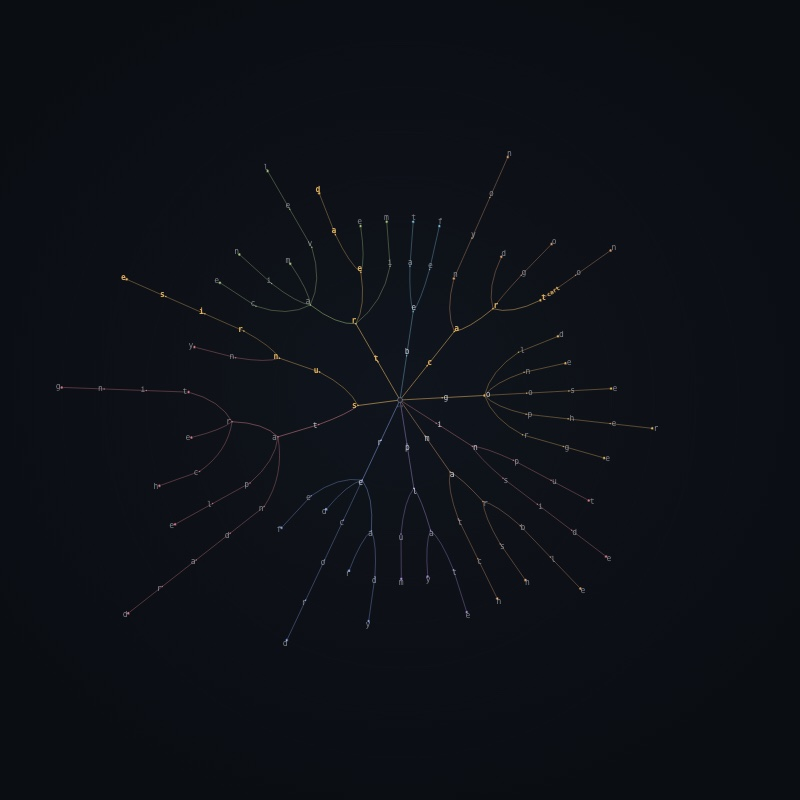
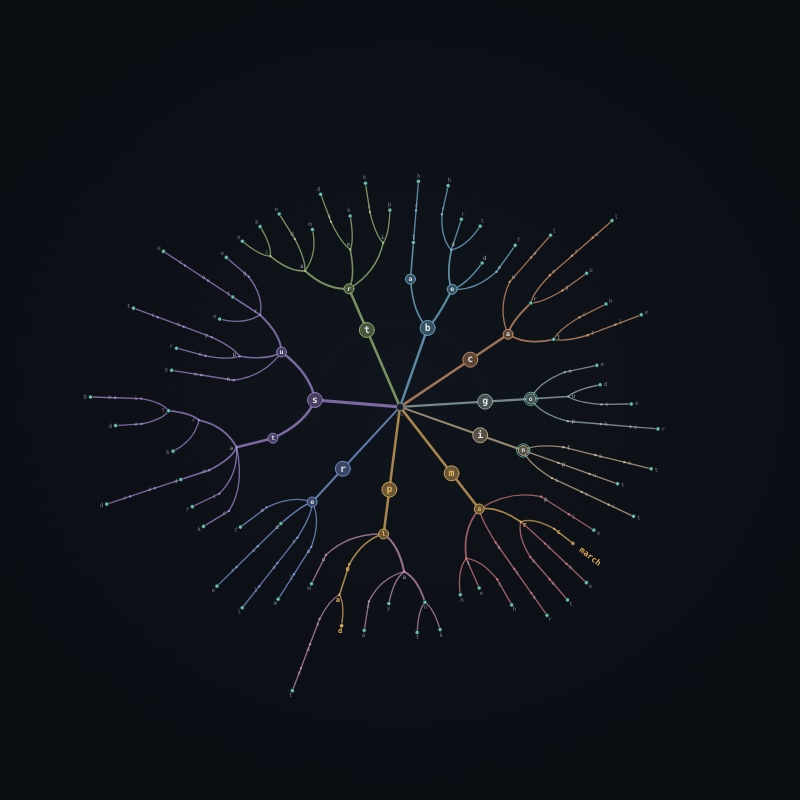
trie: clearer at a glance — bigger trunks and letters, 44 seeded words, readable autocomplete
Regenerated from the Data Structures project after a review of every scene's
first minute: fuller stage, larger text, the payoff sooner, and phone taps that
show within a second (the in-flight operation completes instantly first).

diff --git a/experiences/trie/web/js/scenes/trie.js b/experiences/trie/web/js/scenes/trie.js
@@ -24,10 +24,12 @@
     'go goal goat gold golden golf gone good goose gopher gorge'
   ).split(' ');
 
+  const FIRST = { s: C.violet, c: C.clay, t: C.sage, p: C.plum, b: C.sky, m: C.rose, r: C.blue, i: C.sand, g: '#9fb4b0' };
+
   let uid = 0;
   const mk = (ch, parent) => ({
     ch, parent, kids: new Map(), end: false, depth: parent ? parent.depth + 1 : 0,
-    id: ++uid, x: 0, y: 0, al: 0, hl: 0, w: 1, ang: 0, hue: parent && parent.hue !== undefined ? parent.hue : undefined,
+    id: ++uid, cnt: 0, span: 0, x: 0, y: 0, al: 0, hl: 0, w: 1, ang: 0, hue: parent && parent.hue !== undefined ? parent.hue : undefined,
   });
 
   DS.register({
@@ -66,7 +68,7 @@
       this.labels = [];
       this.ghosts = [];
       this.count = 0;
-      for (let i = 0; i < 18; i++) this.addQuiet(this.nextWord());
+      for (let i = 0; i < 44; i++) this.addQuiet(this.nextWord());
       this.layout(true);
     },
 
@@ -77,7 +79,8 @@
       }
       return null;
     },
-    hueOf(ch) { return DS.HUES[(ch.charCodeAt(0) - 97 + 26) % DS.HUES.length]; },
+    // one hue per first letter; never amber (that means "happening now") or teal (word ends)
+    hueOf(ch) { return FIRST[ch] || DS.wheel((ch.charCodeAt(0) - 97) / 26, 1, 64, 30); },
     child(n, ch) {
       let k = n.kids.get(ch);
       let fresh = false;
@@ -102,24 +105,29 @@
 
     geo() {
       const S = DS.stage;
-      return { cx: S.cx, cy: S.cy, rx: S.w * 0.47, ry: S.h * 0.52 };
+      return { cx: S.cx, cy: S.cy + S.h * 0.01, rx: S.w * 0.43, ry: S.h * 0.44 };
     },
+
+    // radius for a depth: the first levels (the shared trunks) get more room
+    rad(d) { return Math.pow(d / this.maxD, 0.62); },
 
     layout(snap) {
       const G = this.geo();
       let maxD = 1;
       const weigh = (n) => {
         if (n.depth > maxD) maxD = n.depth;
-        let w = n.end && n.kids.size ? 0.6 : 0;
-        for (const k of n.kids.values()) w += weigh(k);
+        let w = n.end && n.kids.size ? 0.6 : 0, cnt = n.end ? 1 : 0;
+        for (const k of n.kids.values()) { w += weigh(k); cnt += k.cnt; }
         n.w = n.kids.size ? w : 1;
+        n.cnt = cnt;                      // words that pass through this node
         return n.w;
       };
       weigh(this.root);
       this.maxD = Math.max(8, maxD);
       const place = (n, a0, a1) => {
         n.ang = (a0 + a1) / 2;
-        const rho = n.depth / this.maxD;
+        const rho = this.rad(n.depth);
+        n.span = a1 - a0;
         n.tx = G.cx + Math.cos(n.ang) * rho * G.rx;
         n.ty = G.cy + Math.sin(n.ang) * rho * G.ry;
         if (snap) { n.x = n.tx; n.y = n.ty; n.al = 1; }
@@ -166,8 +174,14 @@
     *completeGen() {
       const ws = [...this.words];
       if (!ws.length) return;
-      const base = DS.pick(ws);
-      const p = base.slice(0, Math.min(base.length, DS.pick([2, 2, 3])));
+      // prefer a prefix with a handful of completions, so the lit subtree has something in it
+      const under = (q) => ws.filter((w) => w.startsWith(q)).length;
+      let p = '', best = -1;
+      for (let t = 0; t < 14; t++) {
+        const base = DS.pick(ws), q = base.slice(0, Math.min(base.length, DS.pick([2, 2, 3])));
+        const k = under(q), score = k >= 3 && k <= 14 ? 100 - t : k;
+        if (score > best) { best = score; p = q; }
+      }
       let n = this.root;
       this.path = [n];
       this.labels = [];
@@ -182,6 +196,7 @@
       const dfs = (m, s) => { if (m.end) found.push([m, s]); for (const [c, k] of [...m.kids].sort()) dfs(k, s + c); };
       dfs(n, p);
       this.sub = n;
+      this.subP = p;
       this.labels = found.slice(0, 18).map(([m, w]) => ({ n: m, w, t: 4.5 }));
       DS.say(`“${p}…”  →  ${found.slice(0, 7).map((f) => f[1]).join(', ')}${found.length > 7 ? ` … ${found.length} words` : ''}`, 'good');
       yield 4.2;
@@ -242,72 +257,114 @@
     },
 
     draw(g) {
-      const u = DS.u, G = this.geo();
+      const u = DS.u, G = this.geo(), S = DS.stage;
       const inSub = (n) => { if (!this.sub) return false; for (let m = n; m; m = m.parent) if (m === this.sub) return true; return false; };
       const dimOthers = !!this.sub;
+      const R = (G.rx + G.ry) / 2;
 
       // faint depth rings
       for (let d = 1; d <= this.maxD; d++) {
+        const r = this.rad(d);
         g.beginPath();
-        g.ellipse(G.cx, G.cy, (d / this.maxD) * G.rx, (d / this.maxD) * G.ry, 0, 0, Math.PI * 2);
-        g.strokeStyle = DS.rgba(C.dim, 0.045);
+        g.ellipse(G.cx, G.cy, r * G.rx, r * G.ry, 0, 0, Math.PI * 2);
+        g.strokeStyle = DS.rgba(C.dim, d <= 2 ? 0.07 : 0.04);
         g.lineWidth = 1 * u;
         g.stroke();
       }
 
-      this.ghosts.forEach((n) => { g.globalAlpha = n.al; DS.circle(g, n.x, n.y, 2 * u, DS.rgba(C.dim, 0.5)); });
+      this.ghosts.forEach((n) => { g.globalAlpha = n.al; DS.circle(g, n.x, n.y, 3 * u, DS.rgba(C.dim, 0.5)); });
       g.globalAlpha = 1;
 
       // edges, thicker where more words share the path
       g.lineCap = 'round';
       const edges = (n) => {
         for (const k of n.kids.values()) {
-          const hot = k.hl > 0.05 || inSub(k);
-          const a = (dimOthers && !inSub(k) && k.hl < 0.05 ? 0.18 : 0.6) * k.al;
+          const sub = inSub(k);
+          const hot = k.hl > 0.05 || sub;
+          const a = (dimOthers && !sub && k.hl < 0.05 ? 0.28 : 0.72) * k.al;
           const col = hot ? C.amber : k.hue || C.dim;
           g.beginPath();
           g.moveTo(n.x, n.y);
           // bend toward the child's angle so branches fan instead of criss-crossing
           const mx = DS.lerp(n.x, k.x, 0.5), my = DS.lerp(n.y, k.y, 0.5);
-          g.quadraticCurveTo(DS.lerp(mx, G.cx + (k.x - G.cx) * (n.depth / k.depth), 0.5), DS.lerp(my, G.cy + (k.y - G.cy) * (n.depth / k.depth), 0.5), k.x, k.y);
-          g.strokeStyle = DS.rgba(col, hot ? Math.max(a, 0.9 * Math.max(k.hl, inSub(k) ? 1 : 0)) : a);
-          g.lineWidth = (0.9 + Math.sqrt(k.w) * 0.55) * u;
+          const f = this.rad(n.depth) / this.rad(k.depth);
+          g.quadraticCurveTo(DS.lerp(mx, G.cx + (k.x - G.cx) * f, 0.5), DS.lerp(my, G.cy + (k.y - G.cy) * f, 0.5), k.x, k.y);
+          g.strokeStyle = DS.rgba(col, hot ? Math.max(a, 0.95 * Math.max(k.hl, sub ? 1 : 0)) : a);
+          g.lineWidth = Math.min(16, 1.6 + Math.sqrt(k.cnt || 1) * 1.6) * u;
           g.stroke();
           edges(k);
         }
       };
       edges(this.root);
 
-      // nodes + letters
-      const fs = DS.clamp(11 * u, 8, 22);
+      // nodes + letters: the first two levels are big labelled discs, deeper ones dots
+      const labelled = new Set(this.labels.map((l) => l.n));
       const nodes = (n) => {
         for (const k of n.kids.values()) {
-          const hot = k.hl > 0.05 || inSub(k);
-          const dim = dimOthers && !inSub(k) && k.hl < 0.05;
+          const sub = inSub(k);
+          const hot = k.hl > 0.05 || sub;
+          const dim = dimOthers && !sub && k.hl < 0.05;
           g.globalAlpha = k.al * (dim ? 0.35 : 1);
           const col = k.hue || C.dim;
-          if (k.end) DS.circle(g, k.x, k.y, 3.6 * u, hot ? C.amber : col, DS.rgba(C.bg, 0.9), 1.4 * u);
-          else DS.circle(g, k.x, k.y, 1.8 * u, hot ? C.amber : DS.rgba(col, 0.8));
-          const ox = Math.cos(k.ang) * 9 * u, oy = Math.sin(k.ang) * 9 * u;
-          DS.text(g, k.ch, k.x + ox, k.y + oy, { size: fs, mono: true, color: hot ? C.amber : DS.rgba(C.ink, k.depth <= 2 ? 0.85 : 0.55), weight: hot ? 600 : 400 });
+          if (k.depth <= 2) {
+            const room = k.span * this.rad(k.depth) * R;
+            const r = DS.clamp(room * 0.42, 10 * u, (k.depth === 1 ? 18 : 12) * u);
+            DS.circle(g, k.x, k.y, r, hot ? DS.mix(C.amber, C.bg, 0.55) : DS.mix(col, C.bg, 0.6), hot ? C.amber : col, 2 * u);
+            if (k.end) DS.circle(g, k.x, k.y, r + 4 * u, null, C.teal, 2 * u);
+            DS.text(g, k.ch, k.x, k.y + 0.5 * u, { size: Math.max(14 * u, r * 1.3), mono: true, weight: 600, color: hot ? C.amber : C.ink });
+          } else {
+            if (k.end) DS.circle(g, k.x, k.y, 5 * u, hot ? C.amber : C.teal, DS.rgba(C.bg, 0.9), 1.6 * u);
+            else DS.circle(g, k.x, k.y, 2.8 * u, hot ? C.amber : DS.rgba(col, 0.9));
+            // a letter only where there is room for it (or on the lit path)
+            const room = k.span * this.rad(k.depth) * R;
+            if ((hot || room > 13 * u) && !labelled.has(k)) {
+              const ox = Math.cos(k.ang) * 13 * u, oy = Math.sin(k.ang) * 13 * u;
+              DS.text(g, k.ch, k.x + ox, k.y + oy, { size: (hot ? 17 : 14) * u, mono: true, color: hot ? C.amber : DS.rgba(C.ink, k.depth === 3 ? 0.7 : 0.5), weight: hot ? 700 : 400 });
+            }
+          }
           nodes(k);
         }
       };
       nodes(this.root);
       g.globalAlpha = 1;
 
-      DS.circle(g, G.cx, G.cy, 6 * u, C.cell2, C.dim, 1.2 * u);
-      DS.text(g, '“”', G.cx, G.cy + 20 * u, { size: 13 * u, mono: true, color: C.mute });
+      DS.circle(g, G.cx, G.cy, 9 * u, C.cell2, C.dim, 1.6 * u);
+      DS.text(g, '“”', G.cx, G.cy + 24 * u, { size: 15 * u, mono: true, color: C.mute });
 
-      // whole-word labels at the end of a path
+      // the typed prefix, at the node it leads to
+      if (this.sub && this.subP) {
+        const n = this.sub, lbl = `${this.subP}…`;
+        g.font = DS.font(26 * u, { mono: true, weight: 700 });
+        const w = g.measureText(lbl).width + 26 * u, h = 42 * u;
+        const px = -Math.sin(n.ang), py = Math.cos(n.ang);        // beside the branch, not on it
+        const bx = DS.clamp(n.x - w / 2 + px * 48 * u, S.x, S.x1 - w), by = DS.clamp(n.y - h / 2 + py * 48 * u, S.y, S.y1 - h);
+        DS.box(g, bx, by, w, h, 10 * u, DS.rgba(C.bg, 0.9), C.amber, 2 * u);
+        DS.text(g, lbl, bx + w / 2, by + h / 2 + 1 * u, { size: 26 * u, mono: true, weight: 700, color: C.amber });
+      }
+
+      // whole-word labels at the end of a path; flipped inward if they would leave the stage
+      const ls = 20 * u;
+      g.font = DS.font(ls, { mono: true, weight: 600 });
       for (const l of this.labels) {
         const n = l.n, a = Math.min(1, l.t * 1.5);
-        const flip = Math.cos(n.ang) < 0;
+        const len = g.measureText(l.w).width;
+        const ca = Math.cos(n.ang), sa = Math.sin(n.ang);
+        const off = 22 * u;
+        const ex = n.x + ca * (off + len), ey = n.y + sa * (off + len);
+        const out = ex < S.x || ex > S.x1 || ey < S.y || ey > S.y1;
+        const dir = out ? -1 : 1;
+        const flip = ca * dir < 0;
         g.save();
-        g.translate(n.x + Math.cos(n.ang) * 20 * u, n.y + Math.sin(n.ang) * 20 * u);
+        g.translate(n.x + ca * off * dir, n.y + sa * off * dir);
         g.rotate(flip ? n.ang + Math.PI : n.ang);
         g.globalAlpha = a;
-        DS.text(g, l.w, 0, 0, { size: 14 * u, mono: true, weight: 600, color: C.amber, align: flip ? 'right' : 'left' });
+        g.font = DS.font(ls, { mono: true, weight: 600 });
+        g.lineWidth = 5 * u;
+        g.strokeStyle = DS.rgba(C.bg, 0.85);
+        g.textAlign = flip ? 'right' : 'left';
+        g.textBaseline = 'middle';
+        g.strokeText(l.w, 0, 0);
+        DS.text(g, l.w, 0, 0, { size: ls, mono: true, weight: 600, color: C.amber, align: flip ? 'right' : 'left' });
         g.restore();
       }
       g.globalAlpha = 1;

diff --git a/experiences/trie/web/js/main.js b/experiences/trie/web/js/main.js
@@ -247,6 +247,10 @@
       if (st.pending >= 0 || !(s.actions || []).some((a) => a.id === id)) return false;
       activity();
       st.autoHold = st.t + 14;   // let the visitor's op play out before autoplay resumes
+      // A tap must show within a second: finish whatever is mid-flight and start
+      // the visitor's action now. Scenes that manage interruption themselves
+      // (a scripted story, say) set `preempt: false`.
+      if (s.preempt !== false && s.steps && s.steps.preempt) s.steps.preempt();
       s.act(id);
       return true;
     },
@@ -396,7 +400,7 @@
   renderMode();
   const warp = Math.min(600, parseFloat(params.get('warp')) || 0);
   for (let t = 0; t < warp; t += 1 / 30) { DS.time = st.t += 1 / 30; cur().update(1 / 30, true); }
-  if (warp) st.fade = 1;
+  if (warp) { st.fade = 1; if (opPending) { const [t, tone] = opPending; opPending = null; showOp(t, tone); } }
   if (params.has('clean')) document.querySelectorAll('.hud').forEach((e) => { e.style.display = 'none'; });
   requestAnimationFrame(frame);
 })();

diff --git a/experiences/trie/web/js/core.js b/experiences/trie/web/js/core.js
@@ -138,6 +138,21 @@
     clear() { this.q.length = 0; this.wait = 0; }
     run(job) { this.q.push(job); return this; }
     hold(s) { this.q.push(() => s); return this; }
+    // Make room for a visitor: finish the operation in flight instantly (so the
+    // structure is never left half-changed), and drop queued work that hasn't
+    // started. Generators are run to completion with their holds skipped.
+    preempt() {
+      const head = this.q[0];
+      this.q.length = 0;
+      this.wait = 0;
+      if (head && typeof head.next === 'function') {
+        for (let guard = 0; guard < 100000; guard++) {
+          const { value, done } = head.next();
+          if (done) break;
+          if (value && typeof value.next === 'function') { /* nested generator objects are driven by yield* already */ }
+        }
+      }
+    }
     update(dt) {
       this.wait -= dt;
       let guard = 0;
